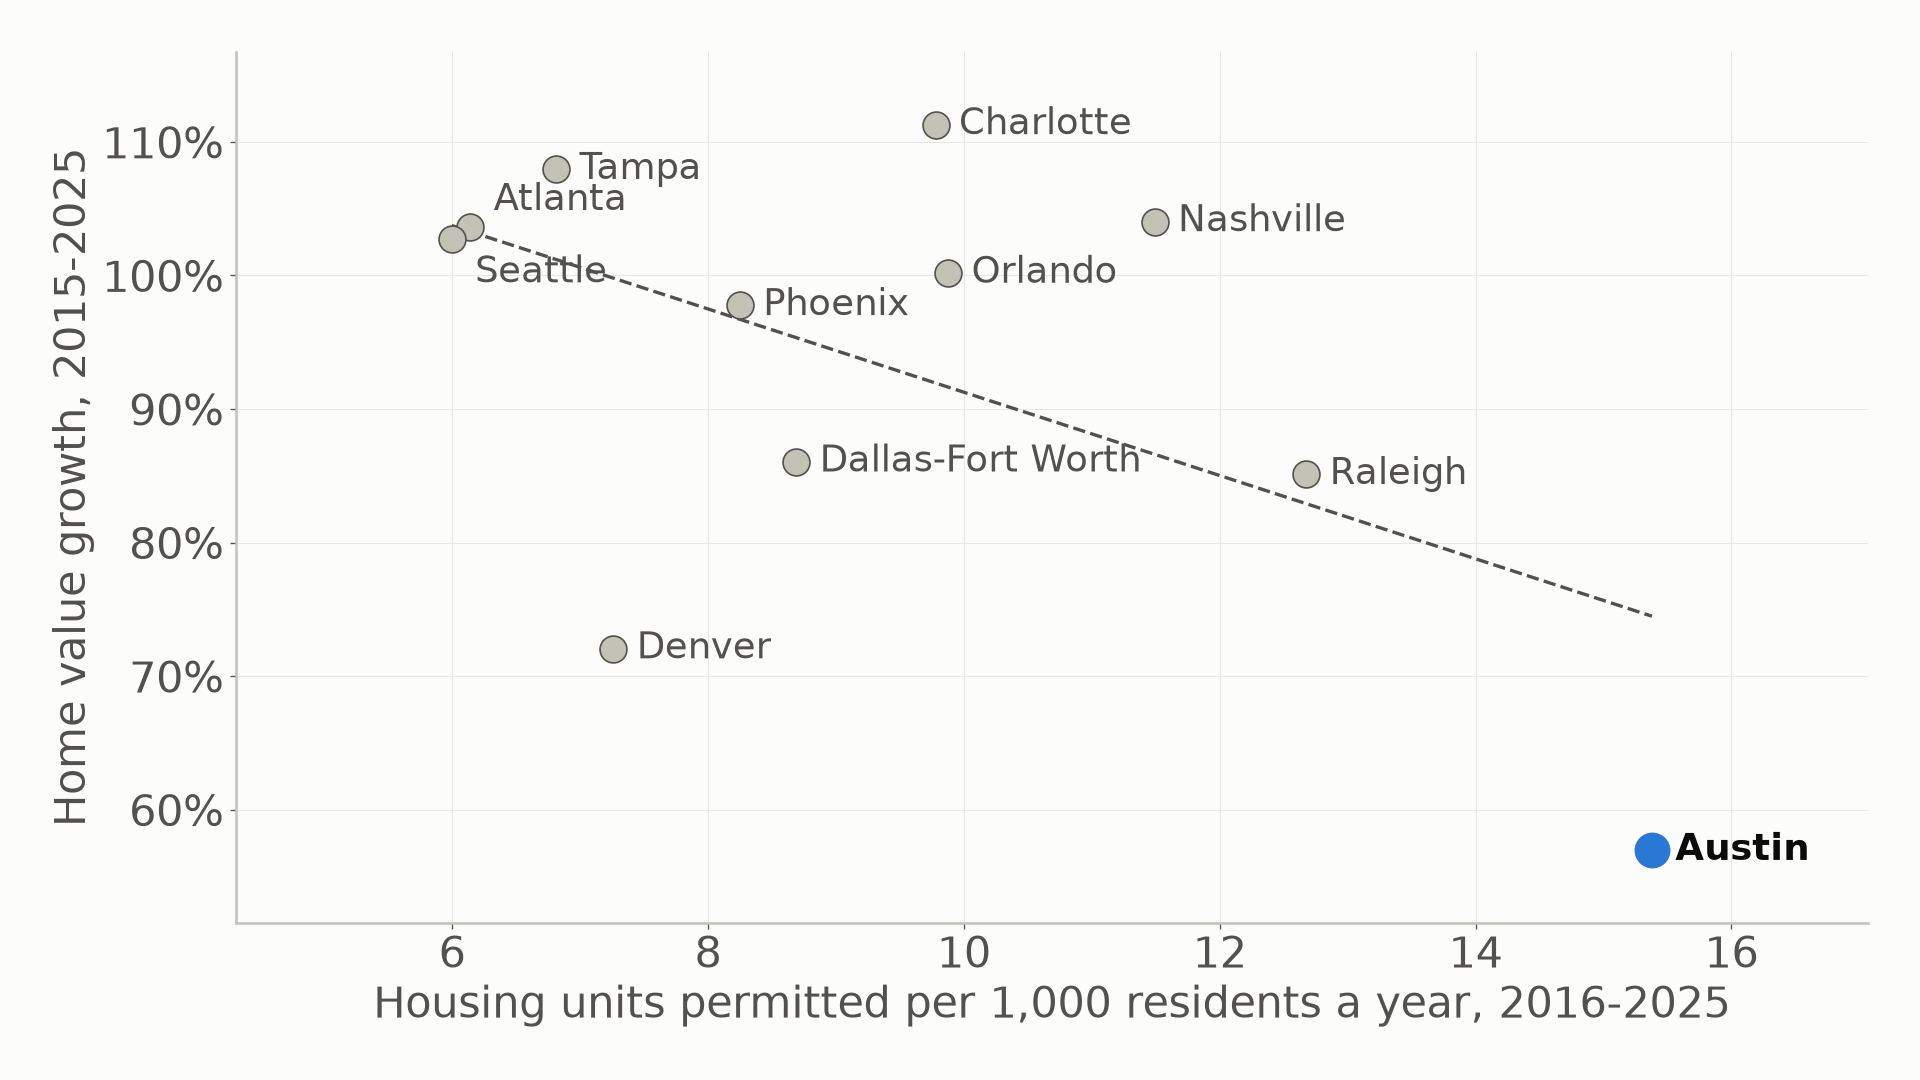
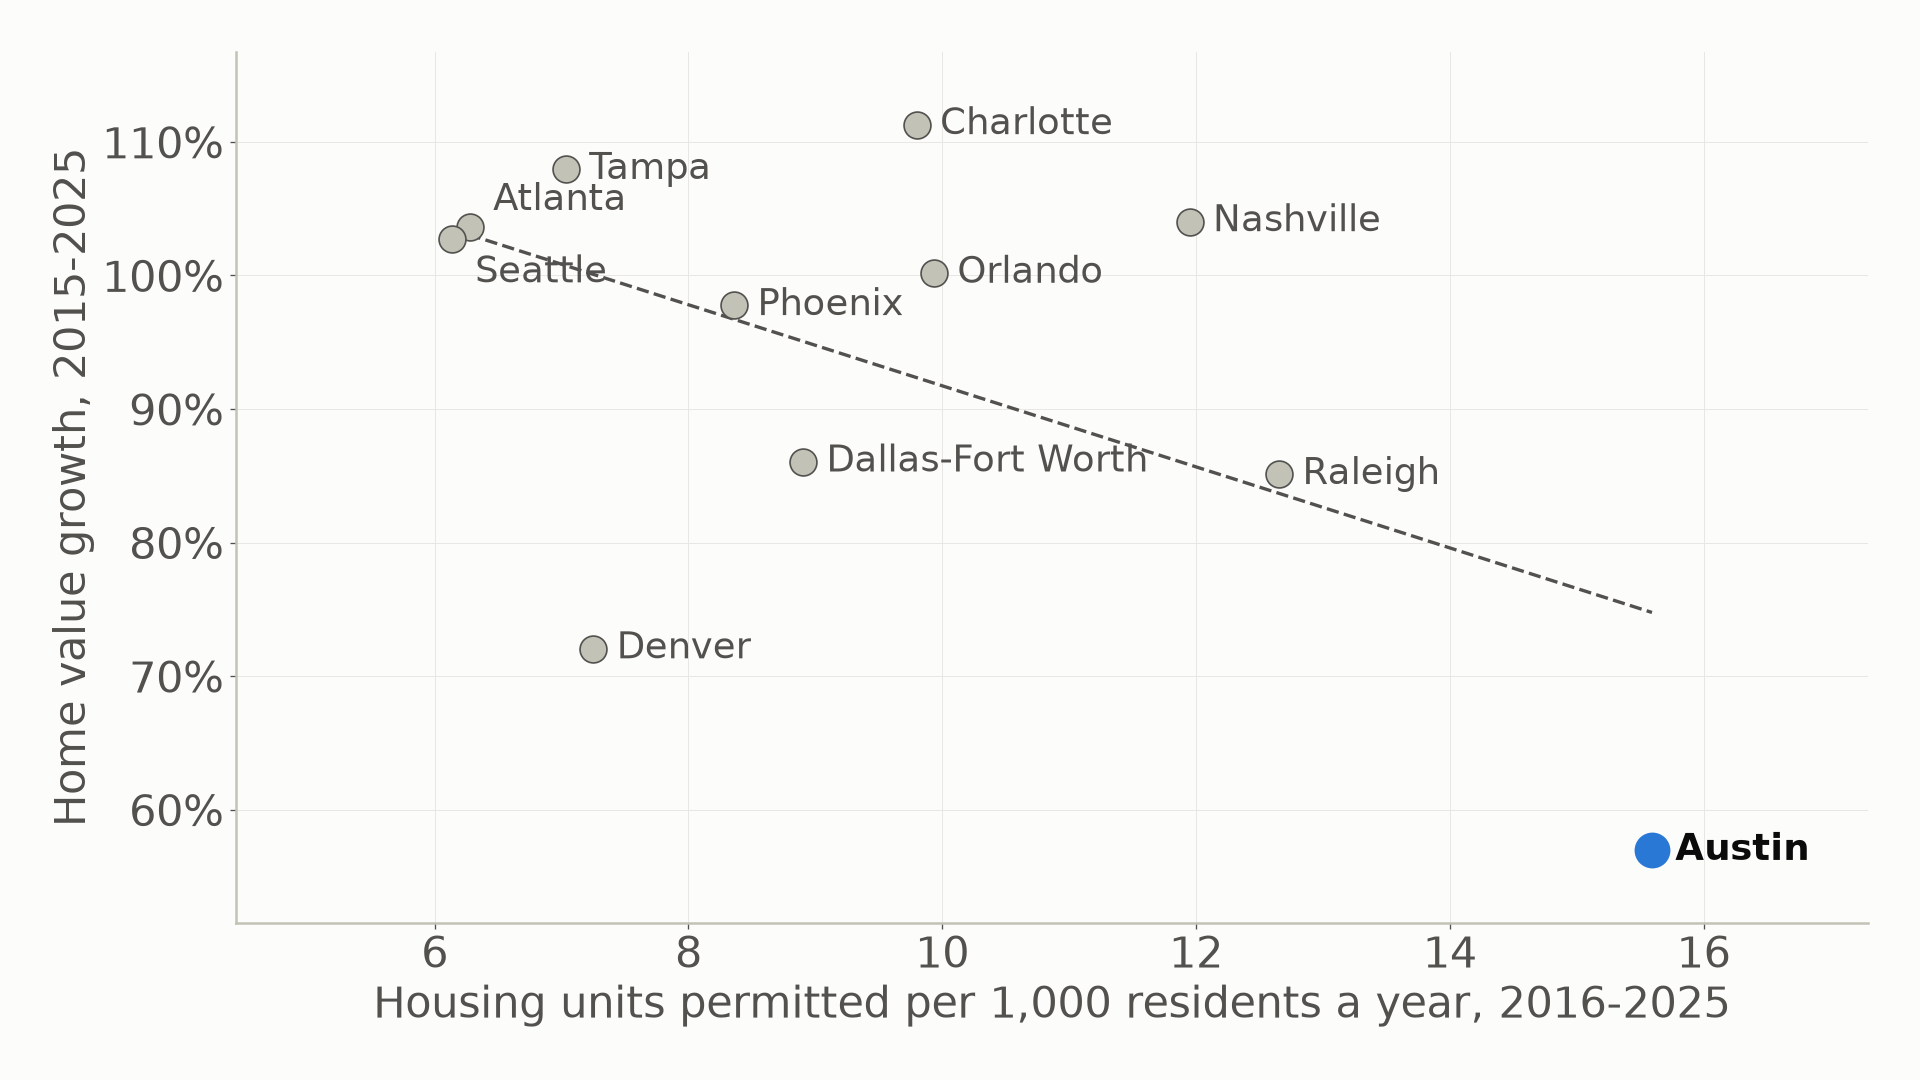
Deck and video: refresh numbers for ACS 1-year income and scaled permits
Rebuild the deck charts and update the video script: Seattle price to income
4.5 to 6.1 (+1.59), Austin +0.29, permits r -0.54 (-0.08 without Austin),
almost 16 permits per 1,000, income lags about a year.

Closes #13

diff --git a/docs/video_script.md b/docs/video_script.md
@@ -7,7 +7,7 @@ the segments that run long. Every number comes from the [findings log](findings.
 September 2026; recheck them after the next pipeline run.
 
 **The one thing a viewer should repeat:** since 2015 every one of the 11 metros got less affordable, and Austin,
-which built the most, barely moved.
+which built the most, lost the least ground.
 
 ## Footage to prepare
 
@@ -27,8 +27,8 @@ Record each segment as its own take; it is easier to cut.
 
 **On screen:** the bar chart race, ending on September 2026.
 
-In 2015, the typical home in Seattle cost about four point nine years of the median household's income. Today it
-costs six point three. That's the biggest jump among eleven of the fastest-growing metros in the country. And Seattle
+In 2015, the typical home in Seattle cost about four and a half years of the median household's income. Today it
+costs six point one. That's the biggest jump among eleven of the fastest-growing metros in the country. And Seattle
 isn't alone: every one of the eleven got less affordable. Here's how I measured it, and what I found.
 
 ## 2. The question and the metros (0:30–1:00)
@@ -57,15 +57,15 @@ There's no server to keep running.
 **On screen:** `deck/price_to_income_change.png`.
 
 First, the affordability race. Price-to-income is the typical home value divided by median household income: how
-many years of income a home costs. It rose in all eleven metros. Seattle rose most, by one point four four years,
-with Nashville close behind. Austin barely moved, up zero point zero four, because it gave back its whole 2022 spike.
+many years of income a home costs. It rose in all eleven metros. Seattle rose most, by one point six years,
+with Nashville next. Austin rose least, up zero point three, after giving back most of its 2022 spike.
 
 **On screen:** `deck/permits_vs_growth.png`.
 
-Why Austin? It built. Austin permitted fifteen homes per thousand residents a year, the most of any metro, and its
-home values grew the least: fifty-seven percent over the decade. Across all eleven metros, more permits went with
-slower price growth, a correlation of minus point five five. But take Austin out and it nearly vanishes, to minus
-point one. With eleven metros, that's a story about Austin, not proof of a law.
+Why Austin? It built. Austin permitted almost sixteen homes per thousand residents a year, the most of any metro, and
+its home values grew the least: fifty-seven percent over the decade. Across all eleven metros, more permits went with
+slower price growth, a correlation of minus point five four. But take Austin out and it nearly vanishes, to minus
+point zero eight. With eleven metros, that's a story about Austin, not proof of a law.
 
 **On screen:** `q3_origin_home_values.png`.
 
@@ -114,14 +114,14 @@ but a plain momentum rule does nearly as well. So the dashboard shows these as r
 **On screen:** the findings log's caveats, then an end card with the repo, dashboard, findings log and model card
 links.
 
-The limits. Census income lags about two years, so the latest ratios run a little high. Zillow's rents are asking
+The limits. Census income lags about a year, so the latest ratios run a little high. Zillow's rents are asking
 rents for new leases, not what current tenants pay. Eleven metros are too few for correlations to be more than
 descriptive. And none of this is investment advice: a "hot" ZIP is often where people get priced out.
 
 Next, I'd like a forecast that copes with a flat market, and a deep dive into one city's 311 calls.
 
 So, the one thing to remember: since 2015, every one of these eleven metros got less affordable, and the one that
-built the most, Austin, barely moved. The code, the dashboard, the findings and the model card are all linked
+built the most, Austin, lost the least ground. The code, the dashboard, the findings and the model card are all linked
 below.
 
 ## YouTube chapters
@@ -148,8 +148,8 @@ Set the timestamps to the final edit before uploading; YouTube needs the first c
 **On screen:** `affordability_race_vertical.mp4` for the first 20 seconds, then the deck charts cropped to 1080×1920.
 
 Eleven of America's fastest-growing metros. Every one got less affordable since 2015. In Seattle, the typical home
-went from 4.9 years of median income to 6.3. Austin barely moved. Why? It built more housing than anywhere else,
-fifteen homes per thousand residents a year, and its prices grew the least. Meanwhile in Atlanta, rents rose 81%
+went from 4.5 years of median income to 6.1. Austin rose least. Why? It built more housing than anywhere else,
+almost sixteen homes per thousand residents a year, and its prices grew the least. Meanwhile in Atlanta, rents rose 81%
 while wages rose 53%. I built a pipeline that pulls eleven public data sources every month, rebuilds the warehouse,
 retrains two models and updates a live dashboard, with no server to run. The full video and the code are linked in
 the comments.
